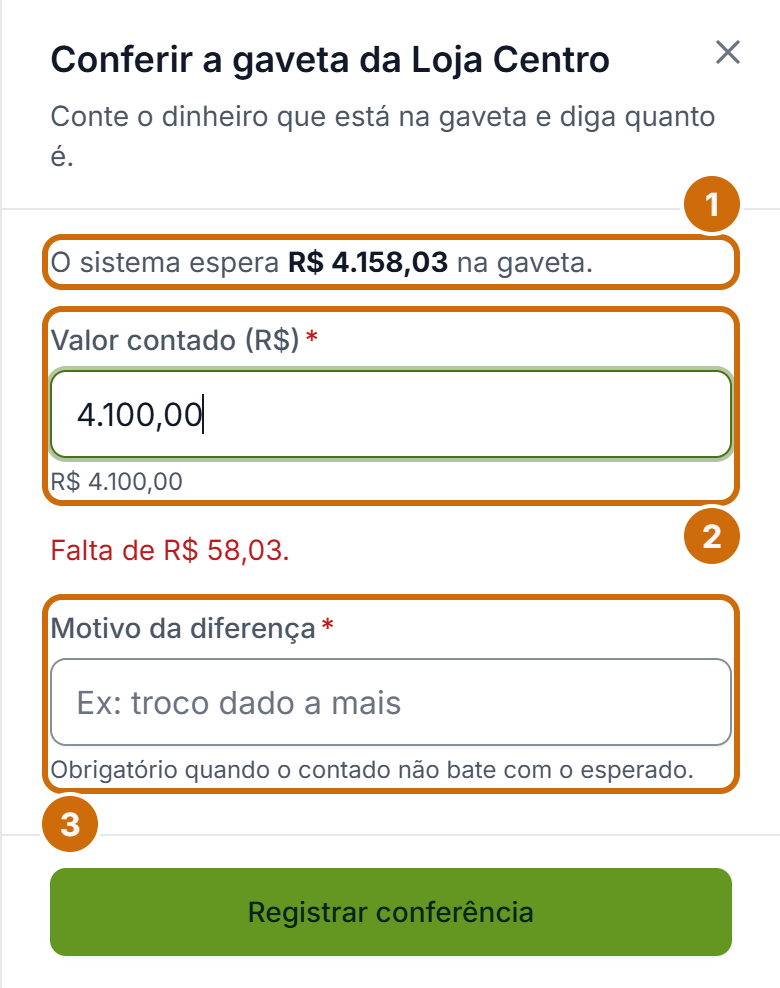
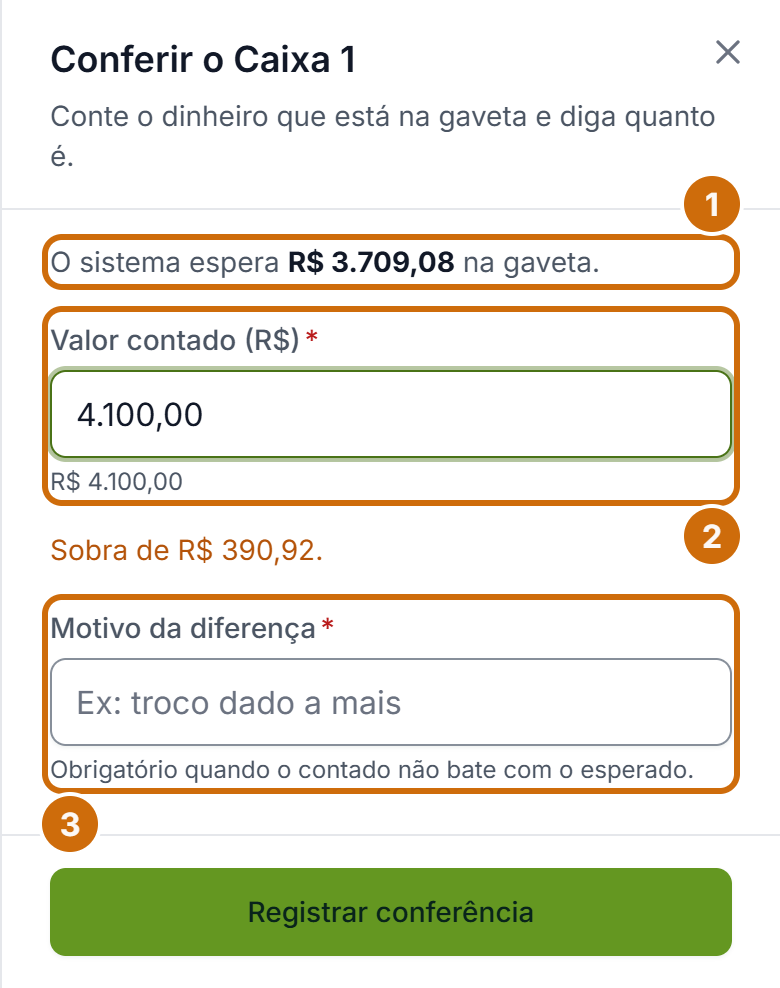
Manual: o caixa sem a transferência da gaveta e sem o aviso antigo

Changed region(s): [[0.2462, 0.0304, 0.7692, 0.0911], [0.4308, 0.2429, 0.7692, 0.3036], [0.0615, 0.5466, 0.4, 0.5769]]

diff --git a/src/app/(dashboard)/manual/_conteudo/partes-tarefa-2.tsx b/src/app/(dashboard)/manual/_conteudo/partes-tarefa-2.tsx
@@ -132,22 +132,22 @@ export function ParteDeCaixa() {
   return (
     <div className="space-y-2">
       <Tarefa
-        paraQueServe="Saber quanto dinheiro deveria estar na gaveta e conferir se está."
+        paraQueServe="Saber quanto dinheiro deveria estar em cada caixa da loja e conferir se está."
         passos={[
-          <>Abra <strong>Caixa</strong>. Cada loja tem a sua gaveta, com o saldo que o sistema calculou.</>,
-          <>No fim do dia, conte o dinheiro e, na seção <strong>Conferir gaveta</strong>, clique em <strong>Conferir</strong>.</>,
+          <>Abra <strong>Caixa</strong>. Em <strong>Caixas de cada loja</strong>, cada caixa (Caixa 1, Caixa 2) aparece com o saldo que o sistema calculou e se está aberto ou fechado.</>,
+          <>Com o caixa aberto, conte o dinheiro e clique em <strong>Conferir</strong>, na linha dele.</>,
           "Digite o valor contado. O sistema compara com o esperado.",
           "Se os dois forem diferentes, escreva o motivo da diferença. Ele é obrigatório.",
-          "Salve. A gaveta passa a bater, e a diferença fica registrada no resultado da loja.",
+          "Salve. O caixa passa a bater, e a diferença fica registrada no resultado da loja.",
         ]}
         problemas={[
           {
-            quando: "A gaveta tem menos que o esperado",
+            quando: "O caixa tem menos que o esperado",
             fazer: "Registre a diferença com o motivo. A falta entra como despesa Diferença de caixa. Se a sobra aparece, entra como receita.",
           },
           {
-            quando: "O Meu Dia avisa que um dia ficou sem conferência",
-            fazer: "Confira a gaveta hoje, com o que está nela. Você pode conferir a qualquer hora, não precisa abrir nem fechar turno.",
+            quando: "O Meu Dia avisa que um caixa está aberto desde ontem",
+            fazer: "O turno daquele caixa não foi encerrado. Quem abriu, ou o Gestor da loja, clica em Encerrar: conta o dinheiro, separa o malote e deixa o troco.",
           },
         ]}
       >
@@ -155,18 +155,22 @@ export function ParteDeCaixa() {
         <Figura id="caixa-conferir" />
       </Tarefa>
 
-      <Subtitulo>Levar a gaveta ao banco</Subtitulo>
+      <Subtitulo>Levar o dinheiro do caixa ao banco</Subtitulo>
       <Tarefa
-        paraQueServe="Registrar o dinheiro que saiu da gaveta e foi depositado."
+        paraQueServe="Registrar o dinheiro que saiu do caixa e foi depositado."
         passos={[
-          <>Em <strong>Caixa</strong>, clique em <strong>Transferir entre caixas</strong>.</>,
-          "Escolha de onde sai (a gaveta) e para onde vai (a conta bancária).",
-          "Digite o valor e salve.",
+          <>Na linha do caixa aberto, clique em <strong>Sangria</strong> e digite o valor retirado. O dinheiro sai do caixa e fica aguardando o gerente. No encerramento, o malote faz o mesmo.</>,
+          <>O Gestor da loja confirma, em <strong>Aguardando o gerente</strong>, o valor que recebeu. A partir daí, o dinheiro fica <strong>Com a gerência</strong>.</>,
+          <>Em <strong>Transferir dinheiro</strong>, escolha de onde sai (Com a gerência da loja) e para onde vai (a conta bancária), digite o valor e salve.</>,
         ]}
         problemas={[
           {
             quando: "O sistema recusa porque não há dinheiro suficiente",
-            fazer: "Você não pode levar mais do que o saldo da gaveta. Confira a gaveta primeiro.",
+            fazer: "A sangria não passa do saldo do caixa, e a transferência não passa do que está com a gerência.",
+          },
+          {
+            quando: "O caixa não aparece como origem da transferência",
+            fazer: "É assim mesmo: o dinheiro do caixa vai ao gerente pela sangria ou pelo malote, e só a gerência vai ao banco.",
           },
         ]}
       />

diff --git a/src/app/(dashboard)/manual/_conteudo/figuras.ts b/src/app/(dashboard)/manual/_conteudo/figuras.ts
@@ -272,23 +272,23 @@ export const FIGURAS: Figura[] = [
     id: "caixa-gaveta",
     pagina: "/emporio/caixa",
     papel: "vendedor",
-    legenda: "O caixa: a gaveta da loja",
-    alt: "Tela Caixa com o saldo da gaveta, a seção Conferir gaveta com o botão Conferir e os movimentos do dia",
+    legenda: "O caixa: os caixas de cada loja",
+    alt: "Tela Caixa com os caixas de cada loja, o botão Conferir na linha do caixa aberto e os movimentos",
     marcas: [
-      { numero: 1, alvo: "o saldo da gaveta de cada loja", texto: "O que o sistema acha que deveria ter em dinheiro." },
-      { numero: 2, alvo: "o botão Conferir, na seção Conferir gaveta", texto: "Você conta o dinheiro e o sistema compara." },
-      { numero: 3, alvo: "a seção Movimentos", texto: "Tudo que entrou e saiu da gaveta." },
+      { numero: 1, alvo: "os caixas de cada loja", texto: "Cada caixa com o saldo que o sistema calculou, aberto ou fechado." },
+      { numero: 2, alvo: "o botão Conferir, na linha do caixa aberto", texto: "Você conta o dinheiro e o sistema compara." },
+      { numero: 3, alvo: "a seção Movimentos", texto: "Tudo que entrou e saiu dos caixas." },
     ],
   },
   {
     id: "caixa-conferir",
     pagina: "/emporio/caixa",
     papel: "vendedor",
-    legenda: "Conferindo a gaveta",
-    alt: "Painel Conferir gaveta com o valor esperado, o valor contado e o campo de justificativa",
+    legenda: "Conferindo o caixa",
+    alt: "Painel Conferir o Caixa 1 com o valor esperado, o valor contado e o campo de justificativa",
     marcas: [
       { numero: 1, alvo: "o valor esperado", texto: "O que o sistema calculou." },
-      { numero: 2, alvo: "o campo Valor contado (R$)", texto: "O que você contou na gaveta." },
+      { numero: 2, alvo: "o campo Valor contado (R$)", texto: "O que você contou no caixa." },
       { numero: 3, alvo: "o campo Motivo da diferença", texto: "Obrigatório quando os dois valores não batem." },
     ],
   },
@@ -301,7 +301,7 @@ export const FIGURAS: Figura[] = [
     marcas: [
       { numero: 1, alvo: "a seção A receber do cartão", texto: "Parcelas que ainda não caíram na conta, com data e valor líquido." },
       { numero: 2, alvo: "a seção Cheques", texto: "Cheques recebidos, depositados, compensados e devolvidos." },
-      { numero: 3, alvo: "o botão Transferir entre caixas", texto: "Leva dinheiro da gaveta para o banco." },
+      { numero: 3, alvo: "o botão Transferir dinheiro", texto: "Leva o dinheiro que está com a gerência para o banco." },
     ],
   },
   {

diff --git a/src/app/(dashboard)/manual/_conteudo/partes-consulta.tsx b/src/app/(dashboard)/manual/_conteudo/partes-consulta.tsx
@@ -57,7 +57,7 @@ const PERGUNTAS: { pergunta: string; resposta: React.ReactNode }[] = [
   },
   {
     pergunta: "Como dar mais permissão ao Vendedor?",
-    resposta: <>Na <Link className="underline" href={`${BASE_DO_EMPORIO}/equipe`}>Equipe</Link>, o Dono ou o Gerente geral ligam as chaves dele: devolver e trocar, lançar compra, contagem, perda, estoque inicial, produção, levar a gaveta ao banco, depositar cheque e cadastrar produto. Cancelar venda, mudar preço e dar desconto acima do limite não têm chave: se precisa disso, promova a Gestor.</>,
+    resposta: <>Na <Link className="underline" href={`${BASE_DO_EMPORIO}/equipe`}>Equipe</Link>, o Dono ou o Gerente geral ligam as chaves dele: devolver e trocar, lançar compra, contagem, perda, estoque inicial, produção, depositar cheque e cadastrar produto. Cancelar venda, mudar preço e dar desconto acima do limite não têm chave: se precisa disso, promova a Gestor.</>,
   },
   {
     pergunta: "Por que o PIX foi recusado?",
@@ -88,8 +88,8 @@ const PERGUNTAS: { pergunta: string; resposta: React.ReactNode }[] = [
     resposta: "Algum custo está provisório ou falta, ou uma despesa fixa ainda não foi paga. Lance a compra ou o custo que falta, e o selo sai.",
   },
   {
-    pergunta: "Por que o Meu Dia me avisa da gaveta?",
-    resposta: "Algum dia dos últimos sete teve movimento na gaveta e ninguém conferiu. Faça a conferência com o que está nela. O dia de hoje não conta, porque ainda não acabou.",
+    pergunta: "Por que o Meu Dia me avisa do caixa?",
+    resposta: "Por um de dois motivos. Um caixa está aberto desde um dia anterior: o turno não foi encerrado, e quem abriu ou o Gestor da loja encerra. Ou há dinheiro aguardando o gerente: uma sangria ou um malote que o Gestor da loja ainda não confirmou em Caixa.",
   },
 ];
 

diff --git a/src/app/(dashboard)/manual/_components/tabela-de-permissoes.tsx b/src/app/(dashboard)/manual/_components/tabela-de-permissoes.tsx
@@ -4,14 +4,15 @@ type Celula = "sim" | "nao" | "chave";
 
 const LINHAS: { acao: string; dono: Celula; gestor: Celula; vendedor: Celula }[] = [
   { acao: "Vender no balcão (desconto até o limite da loja)", dono: "sim", gestor: "sim", vendedor: "sim" },
-  { acao: "Receber fiado e conferir a gaveta", dono: "sim", gestor: "sim", vendedor: "sim" },
+  { acao: "Receber fiado; abrir, conferir e encerrar o caixa; fazer sangria", dono: "sim", gestor: "sim", vendedor: "sim" },
   { acao: "Receber compra e receber transferência que chegou certa", dono: "sim", gestor: "sim", vendedor: "sim" },
   { acao: "Ver estoque, vendas e caixa da própria loja", dono: "sim", gestor: "sim", vendedor: "sim" },
   { acao: "Devolver e trocar", dono: "sim", gestor: "sim", vendedor: "chave" },
   { acao: "Lançar compra", dono: "sim", gestor: "sim", vendedor: "chave" },
   { acao: "Contagem de estoque, perda e estoque inicial", dono: "sim", gestor: "sim", vendedor: "chave" },
   { acao: "Registrar produção", dono: "sim", gestor: "sim", vendedor: "chave" },
-  { acao: "Levar a gaveta ao banco e depositar cheque", dono: "sim", gestor: "sim", vendedor: "chave" },
+  { acao: "Depositar cheque", dono: "sim", gestor: "sim", vendedor: "chave" },
+  { acao: "Confirmar sangria e malote, e levar o dinheiro da gerência ao banco", dono: "sim", gestor: "sim", vendedor: "nao" },
   { acao: "Cadastrar e editar produto", dono: "sim", gestor: "sim", vendedor: "chave" },
   { acao: "Mudar preço, mínimo e máximo", dono: "sim", gestor: "sim", vendedor: "nao" },
   { acao: "Dar desconto acima do limite", dono: "sim", gestor: "sim", vendedor: "nao" },

diff --git a/src/app/(dashboard)/manual/_conteudo/partes-funcao.tsx b/src/app/(dashboard)/manual/_conteudo/partes-funcao.tsx
@@ -124,7 +124,7 @@ export function ParteVendedor() {
         itens={[
           <><Link className="underline" href={`${B}/vender`}>Vende</Link> em dinheiro, PIX, cartão, cheque ou fiado.</>,
           <><Link className="underline" href={`${B}/fiado`}>Recebe o fiado</Link> quando o cliente volta para pagar.</>,
-          <>Confere a <Link className="underline" href={`${B}/caixa`}>gaveta</Link> no fim do dia.</>,
+          <>Abre o <Link className="underline" href={`${B}/caixa`}>caixa</Link> com o troco, confere quando quiser e encerra no fim do turno.</>,
           <>Recebe a compra e a transferência que chegam na loja.</>,
           <>Olha o estoque, as vendas e o caixa da sua loja.</>,
         ]}
@@ -143,7 +143,7 @@ export function ParteVendedor() {
       <Chamada tipo="atencao">
         <p>
           Algumas coisas o Dono pode liberar só para você: devolver e trocar, lançar compra, fazer contagem, registrar
-          perda, levar a gaveta ao banco, depositar cheque e cadastrar produto. Se o botão não aparece ou o sistema
+          perda, depositar cheque e cadastrar produto. Se o botão não aparece ou o sistema
           recusa, é porque essa permissão está desligada. Peça ao Dono.
         </p>
       </Chamada>

diff --git a/src/app/(dashboard)/manual/emporio/vendedor-imprimir/page.tsx b/src/app/(dashboard)/manual/emporio/vendedor-imprimir/page.tsx
@@ -23,11 +23,11 @@ const BLOCOS: { titulo: string; passos: string[] }[] = [
     ],
   },
   {
-    titulo: "Conferir a gaveta (todo fim de dia)",
+    titulo: "Abrir, conferir e encerrar o caixa",
     passos: [
-      "Abra Caixa e clique em Conferir gaveta.",
-      "Conte o dinheiro e digite o valor contado.",
-      "Se não bater, escreva o motivo da diferença.",
+      "Abra Caixa e clique em Abrir, na linha do caixa: conte o troco que está nele.",
+      "Para conferir, clique em Conferir e digite o valor contado. Se não bater, escreva o motivo.",
+      "No fim do turno, clique em Encerrar: conte, separe o malote e deixe o troco.",
     ],
   },
   {

diff --git a/src/app/(dashboard)/emporio/caixa/page.tsx b/src/app/(dashboard)/emporio/caixa/page.tsx
@@ -54,7 +54,7 @@ export default async function CaixaPage() {
     lerCaixaAction(db, user),
     ehGestor ? listarContasAction(db, user, { incluir_arquivadas: true }) : Promise.resolve(null),
     ehGestor ? listarRegrasCartaoAction(db, user) : Promise.resolve(null),
-    // Depositar cheque e levar a gaveta ao banco são do Vendedor com a chave, que não lista contas
+    // Depositar cheque é do Vendedor com a chave, que não lista contas
     // pela action (é do Gestor para cima): aqui só id e nome, para escolher o destino.
     db.bankAccount.findMany({
       where: { archived_at: null },
